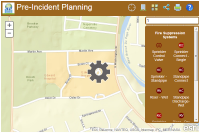
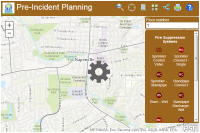
Added label to PreIncidentPlanning filter
and updated thumbnail

diff --git a/js2/lgonlineCommand.js b/js2/lgonlineCommand.js
@@ -1847,6 +1847,9 @@ define("js/lgonlineCommand", ["dijit", "dojo/dom-construct", "dojo/dom", "dojo/o
                 this.applyFilter();
 
                 // Provide a UI to change the filter
+                domConstruct.create("label", {innerHTML: this.hint1},
+                    domConstruct.create("div", {}, this.rootId));
+
                 field1EntryTextBox = new TextBox({
                     id: this.rootId + "_field1",
                     value: this.value1,
